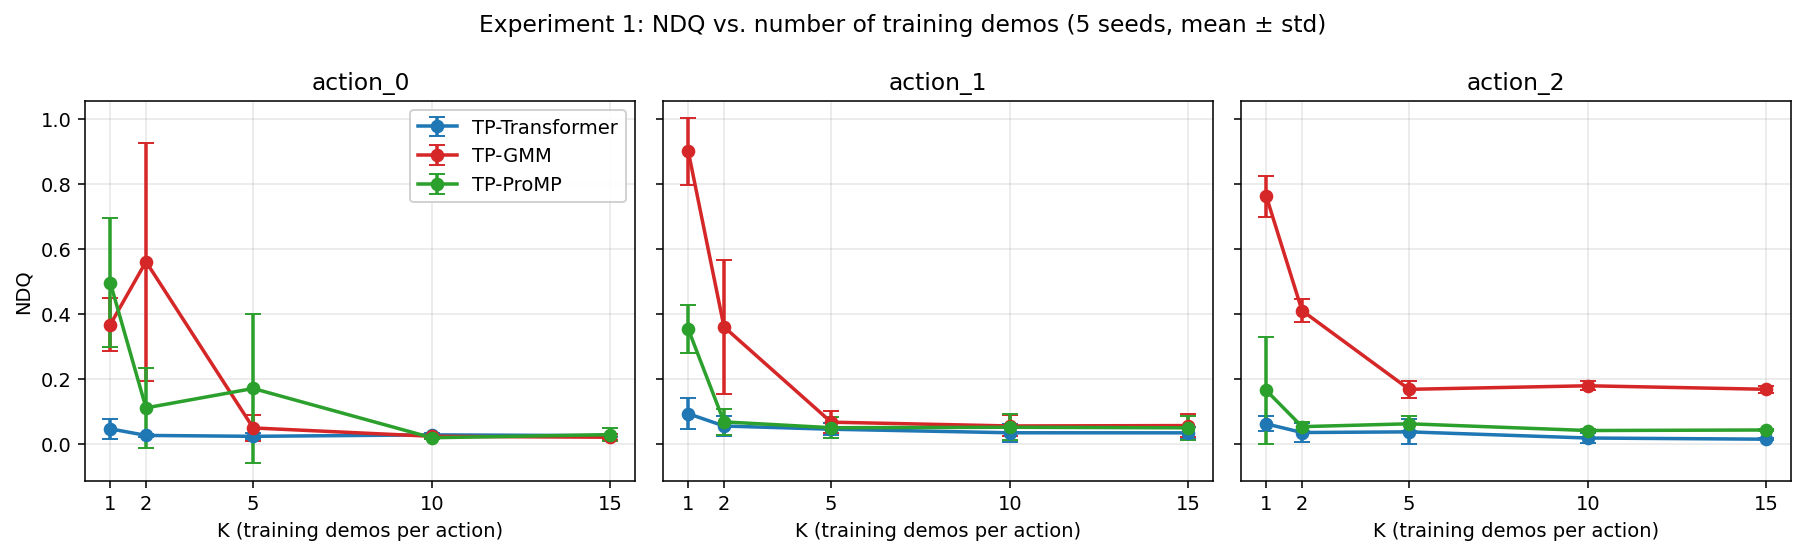
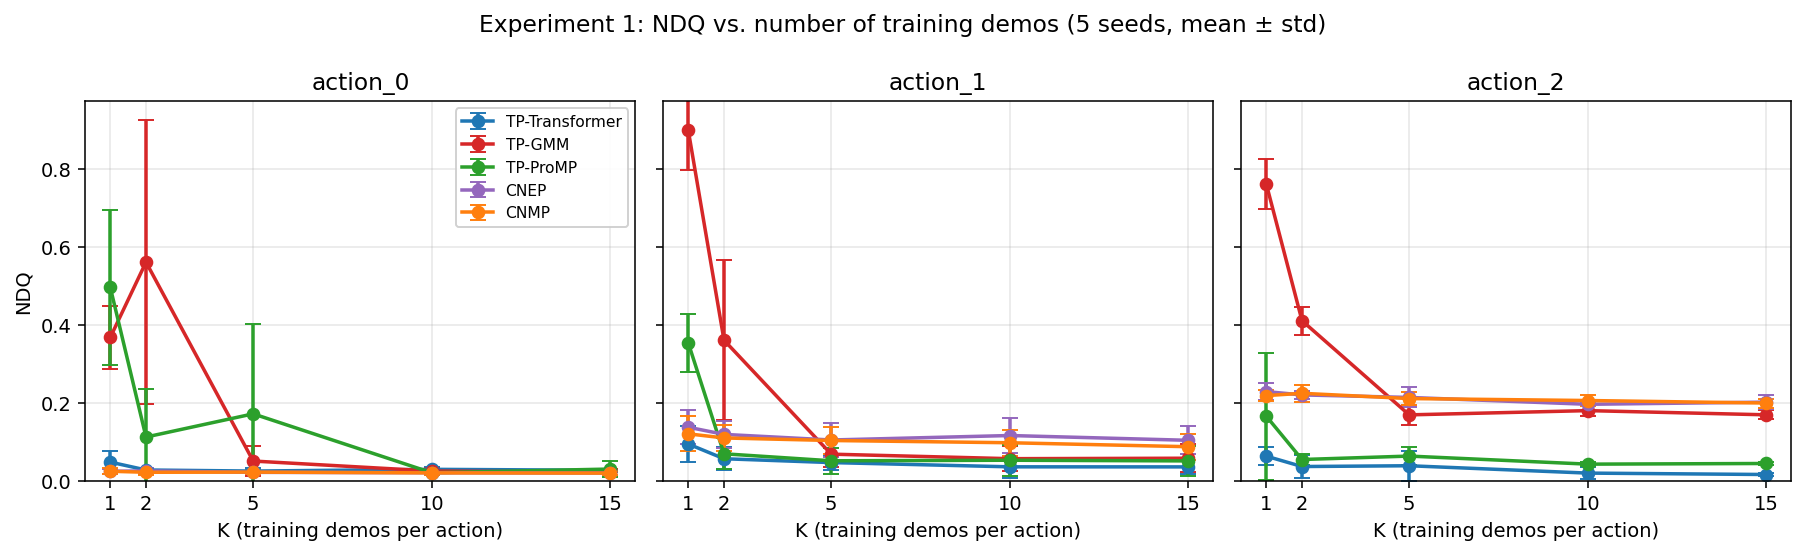
Add CNEP/CNMP and no-augmentation results to RESULTS.md
Experiment 1: add CNEP/CNMP columns (both single-context and
multi-context training regimes) to the ADE/NDQ tables, plus a Baseline
training details section documenting the inherited-vs-chosen
hyperparameters and the two conditioning regimes (multi-context = the
original paper's CNP-style training; single-context = analog to how
TP-Transformer is conditioned, i.e. scene + start pose -> full
trajectory). Finding: CNEP/CNMP plateau at ~87-130 mm and never beat even
TP-ProMP; the deep CNP baselines do not scale with K the way
TP-Transformer does.

Experiment 2: the no-augmentation arm (mean ADE 26.9 mm) lands between
TP-aug (17.7) and random-rotation (57.7). Key finding: naive random
rotation is *worse* than no augmentation at all, while only the
task-parameterised augmentation improves over the no-aug baseline.

Figures regenerated with the CNEP/CNMP curves (multi-context shown) and a
y-axis floored at 0 on the linear ADE plot.

diff --git a/RESULTS.md b/RESULTS.md
@@ -2,7 +2,7 @@
 
 This document summarizes the two main experiments run for the TP-Transformer paper, using the canonical n-of-15 / 3-validation / 3-test split with five RNG seeds (9871, 9872, 9873, 9874, 9875).
 
-All experiments were run on PCS A100 (80 GB) GPUs. The TP-Transformer was trained with Adam at LR = 1e-4, batch size 8, with `ReduceLROnPlateau(patience=500 epochs at K=15, scaled to ~3000 gradient steps for fair comparison across K)` and stopped when the LR floor `min_lr=1e-7` was reached. Best-on-validation checkpoints were used for prediction.
+All experiments were run on PCS A100 (80 GB) GPUs. The TP-Transformer was trained with Adam at LR = 1e-4, batch size 8, with `ReduceLROnPlateau(patience=500 epochs at K=15, scaled to ~3000 gradient steps for fair comparison across K)` and stopped when the LR floor `min_lr=1e-7` was reached. Best-on-validation checkpoints were used for prediction. The CNEP/CNMP deep baselines inherit their architecture, loss, and optimizer settings from the original CNEP repository; see [Baseline training details](#baseline-training-details) for the full inherited-vs-chosen hyperparameter breakdown.
 
 Metrics:
 
@@ -51,25 +51,27 @@ Compares TP-Transformer against two classical task-parameterised baselines (TP-P
 
 ### Position error (ADE, mm) — averaged across actions
 
-| K  | TP-Transformer | TP-ProMP | TP-GMM      |
-|----|----------------|----------|-------------|
-| 1  | **38.4**       | 139.6    | 3377†       |
-| 2  | **26.0**       | 70.4     | 1702†       |
-| 5  | **21.6**       | 45.9     | 98.1        |
-| 10 | **18.1**       | 37.5     | 63.6        |
-| 15 | **17.8**       | 39.3     | 58.6        |
+CNEP/CNMP are shown for both training regimes: **sc** = single-context, **mc** = multi-context (see [Baseline training details](#deep-baselines-cnep-cnmp)).
+
+| K  | TP-Transformer | TP-ProMP | TP-GMM | CNEP-sc | CNEP-mc | CNMP-sc | CNMP-mc |
+|----|----------------|----------|--------|---------|---------|---------|---------|
+| 1  | **38.4**       | 139.6    | 3377†  | 128.5   | 129.3   | 124.5   | 123.6   |
+| 2  | **26.0**       | 70.4     | 1702†  | 125.1   | 124.0   | 110.5   | 116.9   |
+| 5  | **21.6**       | 45.9     | 98.1   | 120.4   | 119.1   | 107.3   | 113.3   |
+| 10 | **18.1**       | 37.5     | 63.6   | 111.2   | 102.0   | 104.2   | 100.4   |
+| 15 | **17.8**       | 39.3     | 58.6   | 96.7    | 93.7    | 93.0    | 86.8    |
 
 † TP-GMM at K=1 fits a Gaussian-mixture with 2–50 components to a single training trajectory per action; the EM fit collapses (zero-variance components, large extrapolation at test time) and produces predictions on the order of metres on action_0 in particular. This is a known failure mode of mixture-density methods at K=1, not a numerical bug. We report the number for completeness. At K=2 the EM still struggles on action_0 (mean ADE ≈ 4.7 m across seeds) while action_1/action_2 improve roughly 8× and 1.4× respectively over K=1.
 
 ### Orientation error (NDQ) — averaged across actions
 
-| K  | TP-Transformer | TP-ProMP | TP-GMM |
-|----|----------------|----------|--------|
-| 1  | **0.068**      | 0.338    | 0.676  |
-| 2  | **0.040**      | 0.078    | 0.444  |
-| 5  | **0.036**      | 0.095    | 0.096  |
-| 10 | **0.028**      | 0.038    | 0.087  |
-| 15 | **0.026**      | 0.041    | 0.083  |
+| K  | TP-Transformer | TP-ProMP | TP-GMM | CNEP-sc | CNEP-mc | CNMP-sc | CNMP-mc |
+|----|----------------|----------|--------|---------|---------|---------|---------|
+| 1  | **0.068**      | 0.338    | 0.676  | 0.139   | 0.130   | 0.120   | 0.121   |
+| 2  | **0.040**      | 0.078    | 0.444  | 0.138   | 0.121   | 0.113   | 0.118   |
+| 5  | **0.036**      | 0.095    | 0.096  | 0.112   | 0.113   | 0.108   | 0.112   |
+| 10 | **0.028**      | 0.038    | 0.087  | 0.106   | 0.111   | 0.105   | 0.108   |
+| 15 | **0.026**      | 0.041    | 0.083  | 0.108   | 0.108   | 0.105   | 0.102   |
 
 ### Per-action ADE detail
 
@@ -98,6 +100,10 @@ Compares TP-Transformer against two classical task-parameterised baselines (TP-P
 
 - **Classical baselines saturate or even regress past K=10.** TP-ProMP and TP-GMM both fail to monotonically improve from K=10 to K=15. Suggests the model classes lack expressiveness to use the additional demos; TP-Transformer keeps a small but consistent edge.
 
+- **The deep CNP-family baselines (CNEP, CNMP) plateau high and barely scale with K.** Across both training regimes they sit at ~120–130 mm mean ADE at K=1 and only reach ~87–97 mm at K=15 — never approaching even TP-ProMP (39 mm at K=15), let alone TP-Transformer (18 mm). They are not data-starved; they are architecturally limited for this task. Notably they are **worse than the classical TP-ProMP at every K ≥ 2**, indicating that a generic image-conditioned CNP does not exploit the task structure as effectively as the task-parameterised methods.
+
+- **single-context vs multi-context training is roughly a wash for CNEP/CNMP**, with multi-context marginally better at high K (e.g. CNMP K=15: 86.8 mc vs 93.0 sc mm). The implicit data augmentation from random observation sampling helps slightly once there are enough demos, but does not change the qualitative picture.
+
 - **Low-data robustness is TP-Transformer's strongest comparative advantage.** The gap to baselines is **largest at K=1–2** and *decreases* (in relative terms) as K grows. For applications where collecting demos is expensive, TP-Transformer dominates.
 
 ![Experiment 1 — ADE vs K (linear, capped at 200 mm)](figures/results/exp1_ade_linear.png)
@@ -110,12 +116,111 @@ Compares TP-Transformer against two classical task-parameterised baselines (TP-P
 
 ---
 
+## Baseline training details
+
+### Classical baselines (TP-GMM, TP-ProMP)
+
+These have closed-form / EM fits with no gradient-based training loop. We use the
+standard task-parameterised formulations; the only fitted hyperparameter is the
+number of GMM components (selected per fit). TP-GMM is ill-conditioned at K=1–2
+(see the footnote under the ADE table) because EM cannot estimate stable
+per-component covariances from one or two demonstrations.
+
+### Deep baselines (CNEP, CNMP)
+
+CNEP and CNMP are adapted from the official implementation accompanying
+[Yildirim & Ugur, "Conditional Neural Expert Processes for Learning Movement
+Primitives From Demonstration", IEEE RA-L 2024](https://ieeexplore.ieee.org/abstract/document/10711283)
+([code](https://github.com/yildirimyigit/cnep), [preprint](https://arxiv.org/abs/2402.08424)).
+The model architectures (encoder / gate / expert-decoder networks), the loss
+(reconstruction NLL + batch-entropy + individual-entropy for CNEP; reconstruction
+NLL for CNMP), and the core optimizer settings are taken unchanged from that
+repository. We list below which settings were inherited and which we set for the
+assembly task, to make the comparison reproducible and to be explicit about
+deviations.
+
+**Inherited from the upstream repository (unchanged):**
+
+| Hyperparameter | Value | Source |
+|----------------|-------|--------|
+| Optimizer | Adam | upstream default |
+| Learning rate | 3e-4 | upstream default |
+| Batch size | 2 | upstream default |
+| CNEP experts (decoders) | 2 | upstream default |
+| Loss coefficients (CNEP) | `nll=16.81`, `batch_entropy=10.672`, `ind_entropy=7.553`, `scale_coefs=True` | upstream (W&B grid-search values; not reported in the paper, only in code) |
+| Std parametrization | `softplus(Σ) + 1e-6` | upstream default |
+| Validation cadence | every 1000 epochs | upstream default |
+| Best-on-validation checkpoint | yes | upstream behaviour |
+
+The paper itself does not specify learning rate, optimizer, batch size, epoch
+budget, or the entropy-loss coefficients (it states only that the coefficients
+were "found empirically by grid search using Weights & Biases"); these live solely
+in the released code, and we inherit them verbatim.
+
+**Set by us for the assembly task:**
+
+| Hyperparameter | Value | Rationale |
+|----------------|-------|-----------|
+| Encoder hidden dims | [256, 256] | matches the upstream MobileNet reference script (`train_cnep_with_mobilenet_v2.py`), the closest analog since we also use 1280-D MobileNetV2 image features |
+| Decoder hidden dims | CNEP [128, 128] / CNMP [256, 256] | matches the same reference script (CNEP and CNMP use different decoder widths upstream) |
+| Epoch budget | 5,000,000 (matches upstream default) | effectively a ceiling; runs end via early stopping well before this |
+| Early stopping | patience = 50,000 epochs on validation MSE | upstream had **no** early stopping (ran to the full budget); we stop when val MSE has not reached a new minimum for 50k epochs. Improvement is threshold-free (any strict decrease resets patience), consistent with the best-checkpoint rule. |
+| Validation metric | full-trajectory MSE: condition on t=0, predict t=1..T-1 over all validation demos in fixed order | deterministic; replaces upstream's noisy random-subset validation, which picked "best" off a single random snapshot |
+| Conditioning regime | two variants compared (see below) | — |
+
+Note on hidden dimensions: there is no single "original" width to inherit — the
+paper states layer sizes are set empirically and does not report them, and the
+released code uses different widths across scripts (256–768) depending on the
+image feature extractor. We adopt the values from the MobileNet reference script
+(the closest analog to our setup), since both use 1280-D MobileNetV2 features.
+Hidden width is exposed as a CLI flag (`--encoder-dims` / `--decoder-dims`) so a
+capacity ablation can be run later; an earlier 512-wide run is archived for that
+comparison.
+
+**Two training regimes compared (`single-context` vs `multi-context`).** The CNP
+family is trained by conditioning on a set of observation (context) points and
+predicting at target timepoints. Both TP-Transformer and these deep baselines
+ultimately condition on the **scene** (object poses for TP-Transformer; MobileNetV2
+image features for CNEP/CNMP — two encodings of the same scene information) plus
+the **initial pose**, and generate the rest of the trajectory. We train CNEP/CNMP
+two ways:
+
+- **multi-context** — the **original paper's** CNP-style training: each step samples
+  a random number of context points `n ∈ [1, n_max)` and target points
+  `m ∈ [1, m_max)` (`n_max = m_max = 20`) at random timesteps. This is the faithful
+  reproduction of the published method and provides implicit data augmentation.
+- **single-context** — an analog to **how TP-Transformer is trained/deployed**:
+  condition on a single context point at `t=0` and predict the entire remaining
+  trajectory (`t=1..T-1`). This gives the baseline the same ground-truth
+  information budget TP-Transformer has at inference (scene + start pose, then
+  generate the rest), rather than the extra random intermediate observations the
+  multi-context regime sees during training.
+
+Validation and inference are **identical** across both regimes (condition on `t=0`,
+predict `t=1..T-1`, over all val/test demos), so the two are evaluated on exactly
+the same task and differ only in their training-time conditioning. In both regimes
+a separate model is trained per `(action, seed)` and the best-on-validation
+checkpoint is used for prediction.
+
+**Bug fixes applied to the upstream code (correctness, not tuning).** The upstream
+loss returns NaN whenever a training batch contains a fully-padded slot
+(`0/0` in the masked NLL), which occurs whenever `K < batch_size` — i.e. at K=1
+and, with the default batch size, made low-data training impossible. We mask out
+fully-padded slots before averaging; when no slots are padded the computation is
+mathematically identical to upstream. We also clamp `batch_size ≤ K` in the
+low-data regime and move tensors to the GPU once before the loop (a performance
+fix). These changes are required to evaluate CNEP/CNMP at K=1–2 at all and do not
+alter the loss formulation.
+
+---
+
 ## Summary
 
 | Question                                            | Result |
 |-----------------------------------------------------|--------|
 | Does TP-augmentation help over plain random rotation? | **Yes** — 3.3× lower ADE, 7.4× lower NDQ at K=15. |
 | How does TP-Transformer compare to classical baselines? | **Best at every K and every action**, with the largest margin at K=1. |
+| How does it compare to deep CNP baselines (CNEP, CNMP)? | **Best by 3–5×.** CNEP/CNMP plateau at ~87–130 mm and never beat even TP-ProMP; training regime (single- vs multi-context) barely matters. |
 | Is the TP-Transformer worth the added complexity? | **Yes for low-data (K ≤ 5).** Classical baselines never close the gap, even at K=15. |
 | How much data is "enough" for TP-Transformer? | **K=5** captures most of the benefit; ADE drops 32% from K=1→K=2 and 44% from K=1→K=5; only 18% more from K=5 to K=15. |
 
@@ -136,4 +241,14 @@ sbatch scripts/slurm/predict_exp2.sbatch     # TP-Transformer test-set inference
 sbatch scripts/slurm/predict_exp1.sbatch     # TP-Transformer test-set inference (25 cells, exp1)
 sbatch scripts/slurm/evaluate_exp2.sbatch    # CSV summary for exp2
 sbatch scripts/slurm/evaluate_exp1.sbatch    # CSV summary for exp1 (one per K)
+```
+
+To train the CNEP/CNMP deep baselines (one model per action × seed; 5 K × 5 seeds
+= 25 array tasks per job; each job is one method × sampling regime):
+
+```bash
+sbatch scripts/slurm/exp1_cnep_fixed.sbatch    # CNEP, single-context (condition on t=0 -> predict t=1..T-1)
+sbatch scripts/slurm/exp1_cnep_random.sbatch   # CNEP, multi-context (upstream CNP-style random sampling)
+sbatch scripts/slurm/exp1_cnmp_fixed.sbatch    # CNMP, single-context
+sbatch scripts/slurm/exp1_cnmp_random.sbatch   # CNMP, multi-context
 ```